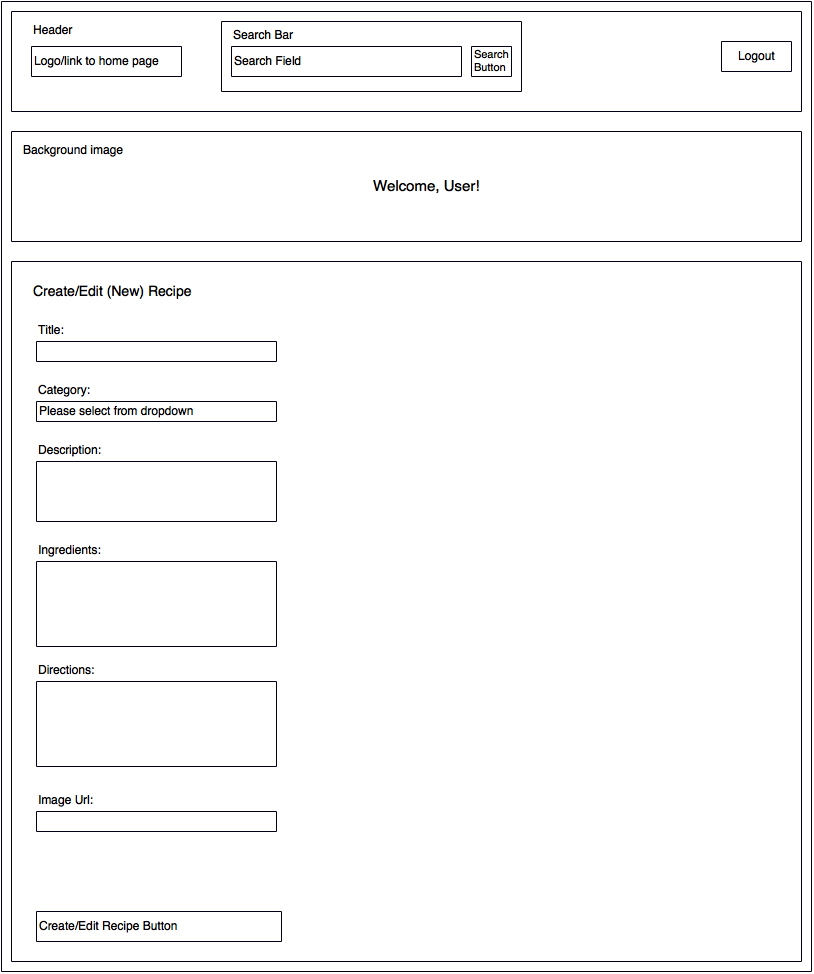
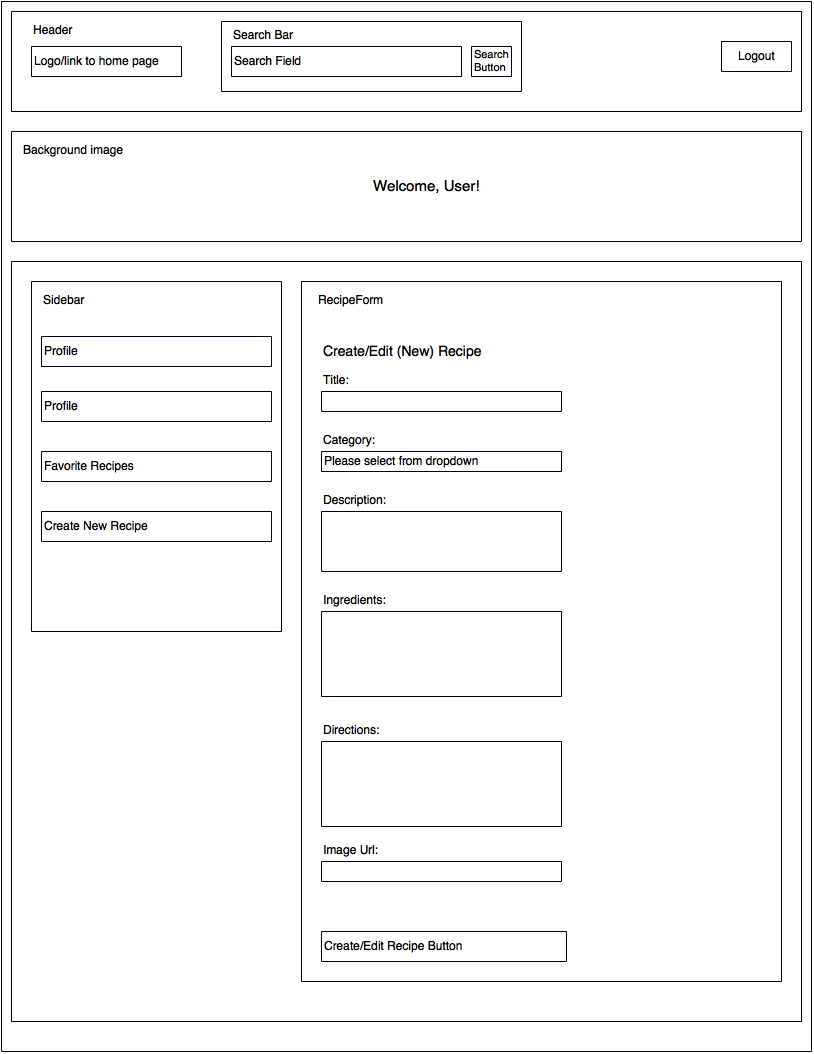
Remove image MVP, add additional routes, and move new/edit recipe into profile container

diff --git a/docs/component-hierarchy.md b/docs/component-hierarchy.md
@@ -31,6 +31,18 @@
 * RecipeIndex
 	* RecipeIndexItem
 
+#### RecipeDetailContainer
+
+* Header
+* Logo/Home
+* Search Container
+* Search Field
+* Search Button
+* Logout
+* RecipeDetail
+* ReviewsIndex
+* ReviewIndexItem
+
 #### ProfileContainer
 
 * Header
@@ -41,44 +53,8 @@
 	* Logout
 * Background Image
 * Sidebar
-* ProfileSection
-	* profileForm
-
-#### UserRecipeContainer/FavoriteRecipeContainer
-
-* Header
-	* Logo/Home
-	* Search Container
-		* Search Field
-		* Search Button
-	* Logout
-* Background Image
-* Sidebar
-* RecipeIndex
-	* RecipeIndexItem
-
-#### NewRecipeContainer
-
-* Header
-	* Logo/Home
-	* Search Container
-		* Search Field
-		* Search Button
-	* Logout
-* Background Image
-* RecipeForm
-
-#### RecipeDetailContainer
-
-* Header
-	* Logo/Home
-	* Search Container
-		* Search Field
-		* Search Button
-	* Logout
-* RecipeDetail
-	* ReviewsIndex
-		* ReviewIndexItem
+* Selected Sidebar Section
+	* Selected Sidebar Details (either About Me, RecipeIndex & RecipeIndexItem, or Create/Edit Recipe)
 
 #### ReviewContainer
 
@@ -86,11 +62,15 @@
 
 ## Routes
 
-| Path                 | Component   	             |      
-| -------------------- | ------------------------- |
-| /home                | "HomeContainer"           |
-| /signup              | "AuthFormContainer"       |
-| /signin              | "AuthFormContainer"       |
-| /search-results      | "SearchResultsContainer"  |
-| /profile             | "ProfileContainer"        |
-| /new-recipe          | "NewRecipeContainer"      |
+| Path                         | Component   	             |      
+| ---------------------------- | ------------------------- |
+| /home                        | "HomeContainer"           |
+| /signup                      | "AuthFormContainer"       |
+| /signin                      | "AuthFormContainer"       |
+| /search-results              | "SearchResultsContainer"  |
+| /recipe/:id                  | "RecipeDetailContainer"   |
+| /profile                     | "ProfileContainer"        |
+| /profile/my-recipes          | "ProfileContainer"        |
+| /profile/favorites           | "ProfileContainer"        |
+| /profile/new-recipe          | "ProfileContainer"        |
+| /profile/edit-recipe/:id     | "ProfileContainer"        |

diff --git a/docs/README.md b/docs/README.md
@@ -11,10 +11,9 @@ SomeRecipes is a web application inspired by AllRecipes built using Ruby on Rail
 - [ ] A production README
 - [ ] Hosting on Heroku
 - [ ] New account creation, login, and guest/demo login
-- [ ] Images
+- [ ] Viewing and creating recipes
 - [ ] Favorites/likes
 - [ ] Reviewing recipes
-- [ ] Creating recipes
 - [ ] Searching recipes
 
 ## Design Docs
@@ -49,9 +48,9 @@ SomeRecipes is a web application inspired by AllRecipes built using Ruby on Rail
 
 **Objective**: Users can search for specific results
 
-### Phase 6: Styling (1 day)
+### Phase 6: Advanced Styling (1 day)
 
-**Objective**: Improve styling and add category backdrop to home page
+**Objective**: Improve styling (ie modals) and add category backdrop to home page
 
 ### Bonus Features (TBD)
 - [ ] Infinite scrolling
